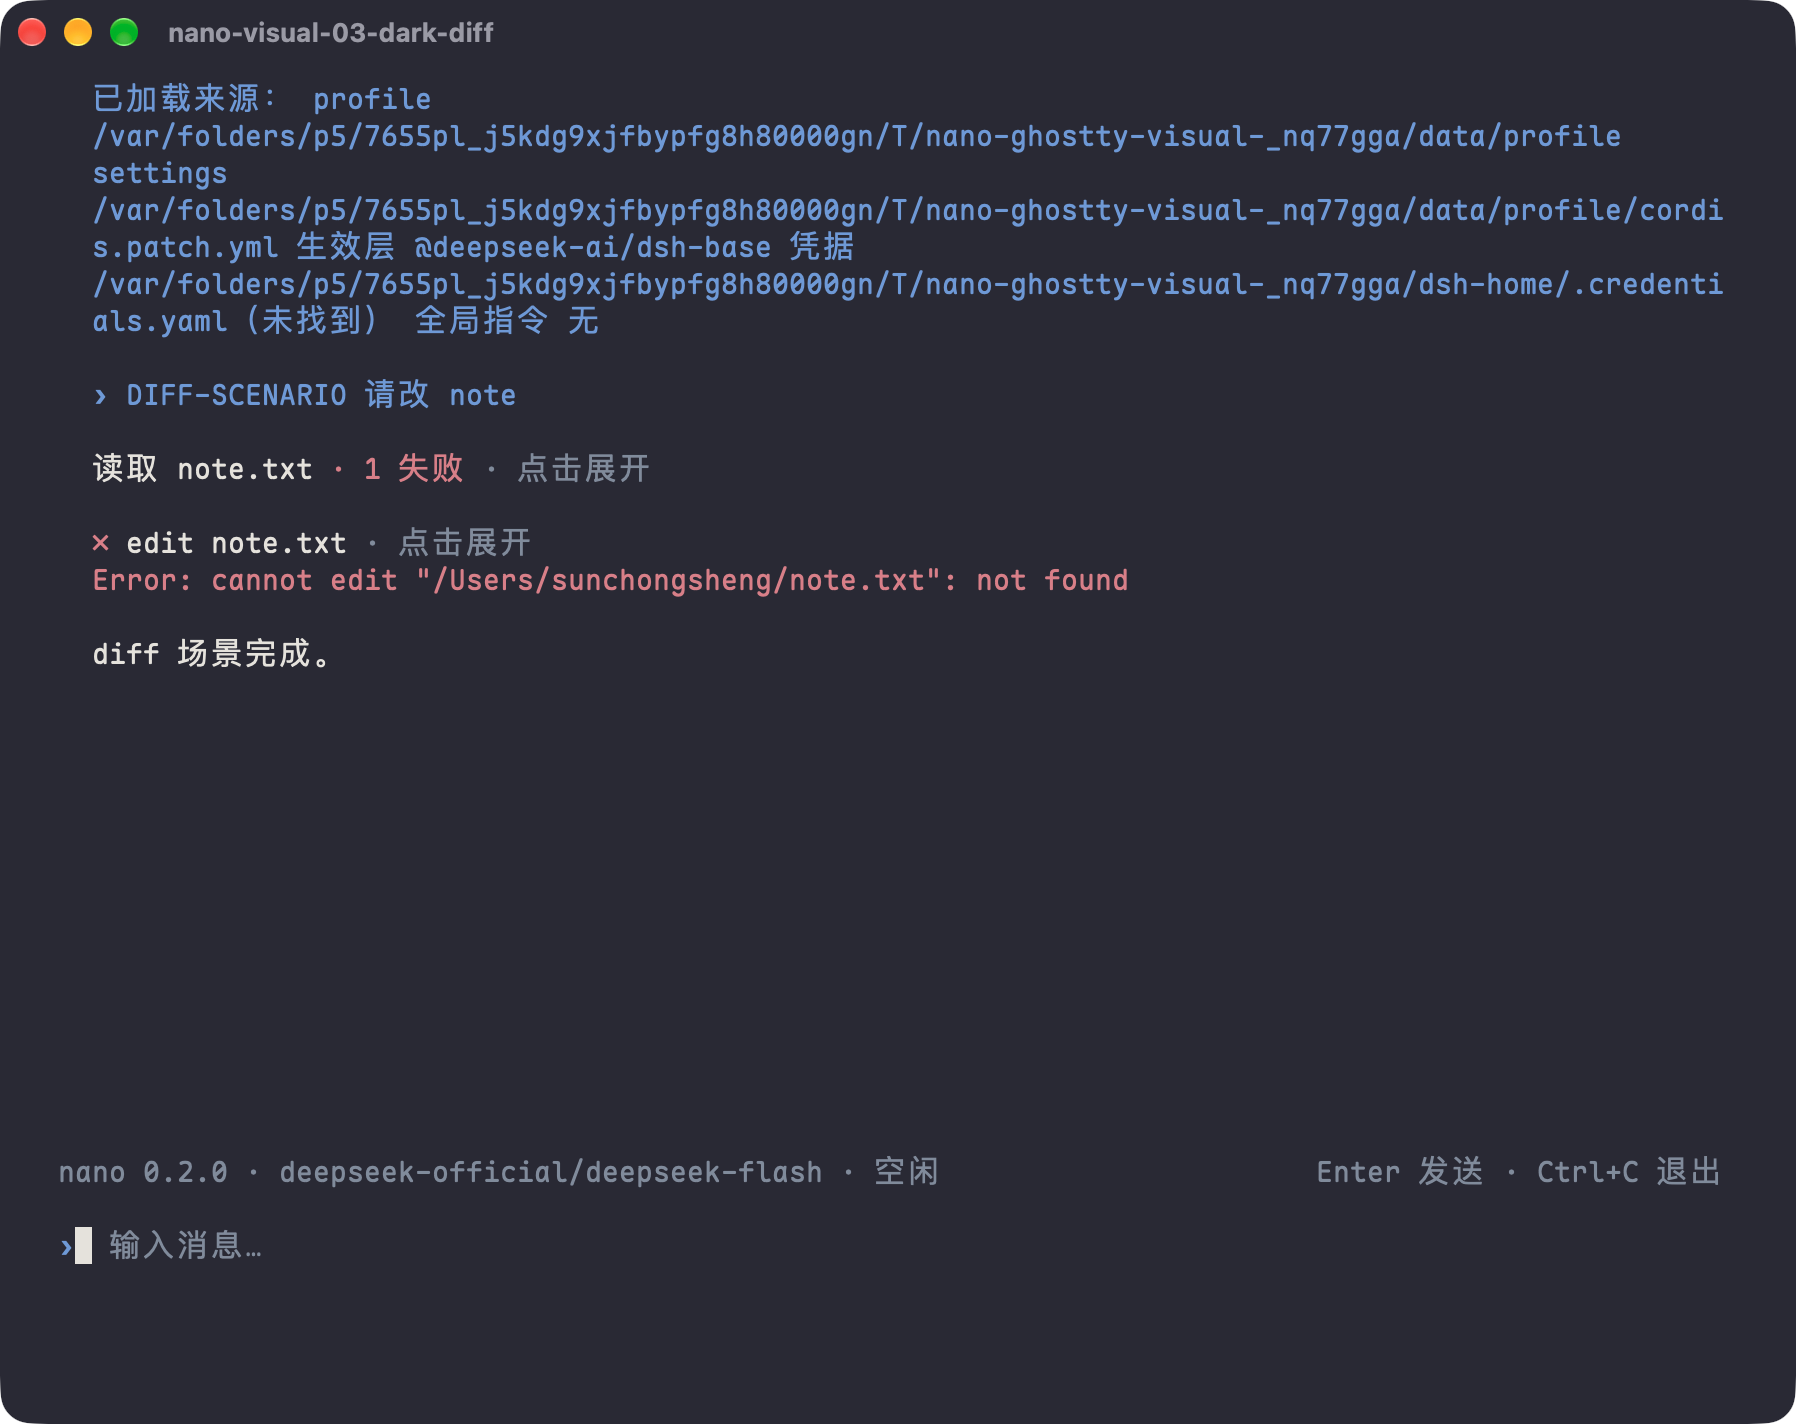
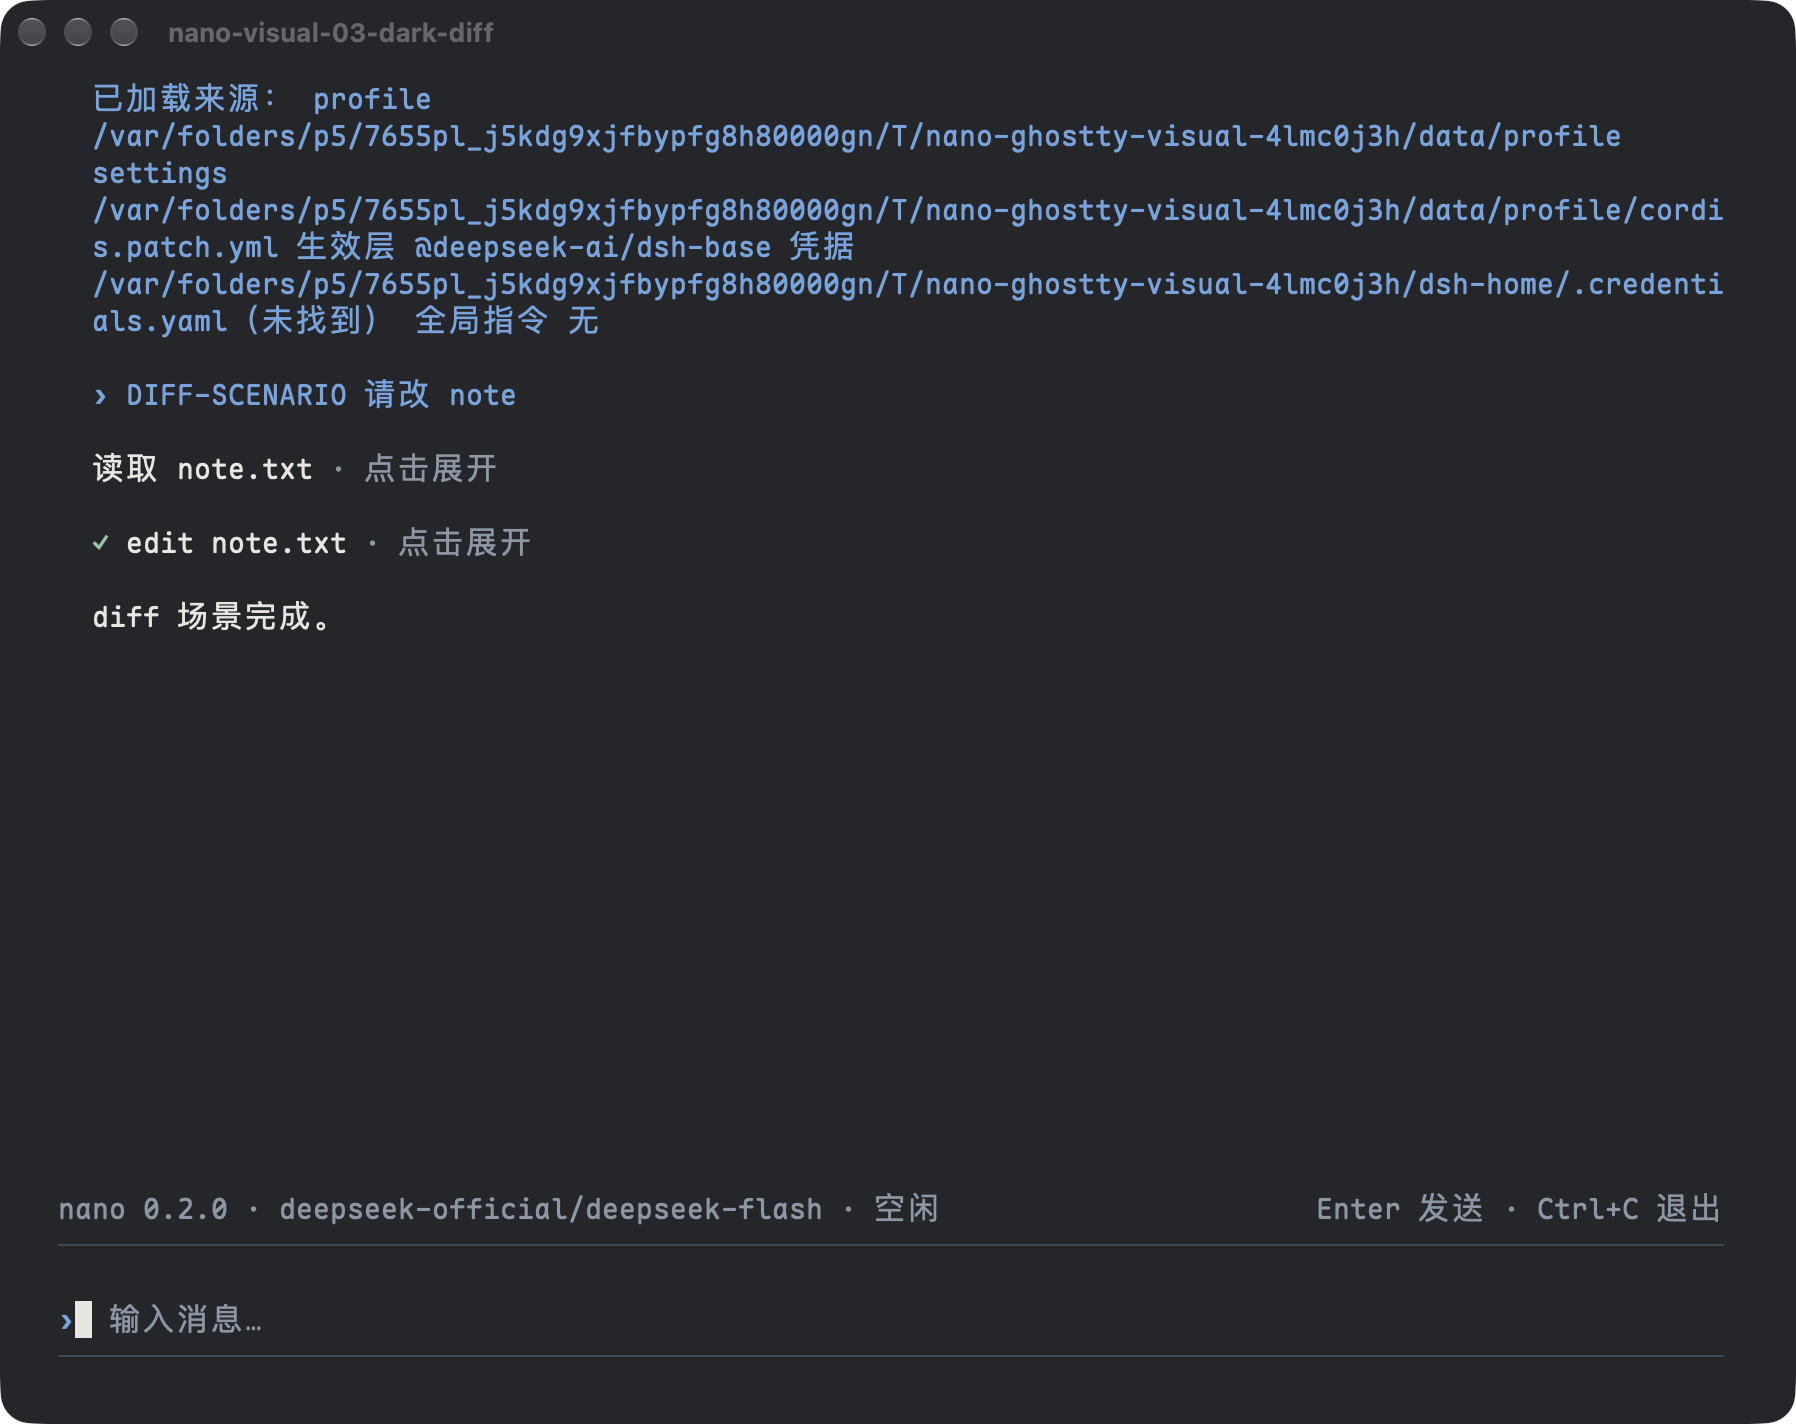
feat(γ): 真 Ghostty 视觉采集与 0.2.0 截图
- ghostty-visual.py：深/浅、60/100 列、CJK、diff 工具行、0.8 透明度
- 夹具只设置终端底色/前景；nano 本身不画背景
- 每个场景独立 Ghostty 实例，结束立即杀掉并清理临时目录
- 发布结论：视觉行转通过，阻断 4 项

diff --git a/tests/e2e/ghostty-visual.py b/tests/e2e/ghostty-visual.py
@@ -19,6 +19,7 @@ import argparse
 import json
 import os
 import shutil
+import signal
 import subprocess
 import sys
 import tempfile
@@ -116,18 +117,32 @@ def wait_for_window_gone(title, timeout=15):
 
 def capture(title, path):
     window_id = wait_for_window(title)
+    listing = run([str(LIST_WINDOWS)]).stdout
+    for line in listing.splitlines():
+        fields = line.split("\t")
+        if len(fields) >= 5 and fields[0] == str(window_id):
+            print(f"WINDOW {title} id={window_id} bounds={fields[4]}")
     subprocess.run(["screencapture", "-x", "-l", str(window_id), "-o", str(path)], check=True)
     return window_id
 
 
 def close_window(title):
-    for _ in range(2):
-        try:
-            focus(title)
-        except RuntimeError:
-            return True
-        applescript('tell application "System Events" to keystroke "c" using control down')
-        if wait_for_window_gone(title, 6):
+    """关掉本次专有实例：按 --title 找到 Ghostty 进程并结束它。"""
+    for _ in range(3):
+        killed = False
+        for pid in ghostty_pids():
+            command = run(["ps", "-o", "command=", "-p", str(pid)]).stdout
+            if f"--title={title}" in command:
+                try:
+                    os.kill(pid, signal.SIGTERM)
+                    killed = True
+                except OSError:
+                    pass
+        if killed:
+            time.sleep(0.6)
+            if wait_for_window_gone(title, 4):
+                return True
+        if wait_for_window_gone(title, 1):
             return True
     return False
 
@@ -137,7 +152,7 @@ def ghostty_pids():
     return {int(line) for line in result.stdout.split() if line.strip().isdigit()}
 
 
-def launch(title, command, cols, rows, opacity=None, font_size=None):
+def launch(title, command, cols, rows, opacity=None, font_size=None, bg=None, fg=None, cwd=None):
     args = [
         "open",
         "-na",
@@ -151,7 +166,14 @@ def launch(title, command, cols, rows, opacity=None, font_size=None):
         "--wait-after-command=false",
         "--macos-option-as-alt=true",
         "--window-save-state=never",
+        "--window-inherit-working-directory=false",
     ]
+    if cwd is not None:
+        args.append(f"--working-directory={cwd}")
+    if bg is not None:
+        args.append(f"--background={bg}")
+    if fg is not None:
+        args.append(f"--foreground={fg}")
     if opacity is not None:
         args.append(f"--background-opacity={opacity}")
     if font_size is not None:
@@ -328,7 +350,7 @@ def main():
 
     results = []
 
-    def scenario(name, *, theme, cols, rows, send, opacity=None, capture_after=5.0):
+    def scenario(name, *, theme, cols, rows, send, opacity=None, capture_after=5.0, bg=None, fg=None):
         title = f"nano-visual-{name}"
         env = {
             "HOME": str(home),
@@ -341,16 +363,18 @@ def main():
         }
         command = "env " + " ".join(f"{key}={value}" for key, value in env.items())
         command += f' "{bin_path}" --root ghostty-{name}'
-        launch(title, command, cols, rows, opacity=opacity)
-        paste_text(title, send)
-        send_key(title, 36)  # Return
-        time.sleep(capture_after)
-        path = out / f"{name}.png"
-        capture(title, path)
-        check = image_check(path)
-        results.append({"scenario": name, "path": str(path), **check})
-        print(f"CAPTURED {name} {check}")
-        close_window(title)
+        try:
+            launch(title, command, cols, rows, opacity=opacity, bg=bg, fg=fg, cwd=str(work))
+            paste_text(title, send)
+            send_key(title, 36)  # Return
+            time.sleep(capture_after)
+            path = out / f"{name}.png"
+            capture(title, path)
+            check = image_check(path)
+            results.append({"scenario": name, "path": str(path), **check})
+            print(f"CAPTURED {name} {check}")
+        finally:
+            close_window(title)
 
     scenario(
         "01-dark-100-response",
@@ -359,6 +383,8 @@ def main():
         rows=35,
         send="请用 LONG-CJK 回复一段长文本",
         capture_after=6.0,
+        bg="#17191d",
+        fg="#e8e6e0",
     )
     scenario(
         "02-light-60",
@@ -367,6 +393,8 @@ def main():
         rows=30,
         send="请用 LONG-CJK 回复一段长文本",
         capture_after=6.0,
+        bg="#f6f3ed",
+        fg="#343945",
     )
     scenario(
         "03-dark-diff",
@@ -375,6 +403,8 @@ def main():
         rows=35,
         send="DIFF-SCENARIO 请改 note",
         capture_after=6.0,
+        bg="#17191d",
+        fg="#e8e6e0",
     )
     scenario(
         "04-dark-transparency",
@@ -384,6 +414,8 @@ def main():
         send="请用 LONG-CJK 回复一段长文本",
         opacity=0.8,
         capture_after=6.0,
+        bg="#17191d",
+        fg="#e8e6e0",
     )
 
     subprocess.run(["pbcopy"], input=original_clipboard, check=False)
@@ -392,7 +424,7 @@ def main():
     shutil.copyfile(summary, out / "summary.json")
     print(f"SUMMARY {summary}")
     if not args.keep:
-        pass  # 保留临时目录便于排查；截图已复制到 --out
+        shutil.rmtree(ROOT, ignore_errors=True)
     return 0
 
 

diff --git a/docs/release/0.2.0/release-conclusion.md b/docs/release/0.2.0/release-conclusion.md
@@ -38,7 +38,7 @@
 | 启动 | 首启显示配置 / 凭据 / 全局指令来源（B8） | 通过 | alpha §1#6 |
 | 主链路 | 对话 → 工具 → 差异 → 审批 → 完成 | 通过 | e2e 用本地 Anthropic Messages SSE mock：① read → edit 改写文件、差异块折叠可展开、最终回复；② bash 提权触发审批卡（默认焦点「拒绝」），↑+Enter 选「允许一次」后命令执行并收到最终回复 |
 | 功能面 | 附件/图片/技能/模型/权限/压缩/终端/任务/Monitor/调度/子代理 | 未验证 | beta §3 对照表多项为「部分」，跨根九面「未覆盖」；`/model` 已实现并有用例（列目录、切换、目录外拒绝） |
-| 视觉 | 主题/间距 ADR、process-display ADR、深/浅、60/100 列、diff 8 行、CJK/窄屏 | 未验证 | PTY 无头验证通过：深/浅主题分别命中各自色盘的 RGB、均无 ANSI 命名色；60/100 列骨架行不超宽且有一行铺满（`vision-pty.test.mjs`）；仍缺 0.2.0 的 Ghostty 真机截图（合成/透明/字体），0.1.0 截图属已退场的 Rust 实现 |
+| 视觉 | 主题/间距 ADR、process-display ADR、深/浅、60/100 列、diff 8 行、CJK/窄屏 | 通过 | 0.2.0 真 Ghostty 截图：`evidence/ghostty/01-dark-100-response.png`、`02-light-60.png`、`03-dark-diff.png`、`04-dark-transparency.png`（`tests/e2e/ghostty-visual.py`，夹具把终端底色设为设计稿的中性页色；nano 本身不画背景）。PTY 断言补充：深/浅色盘 RGB、60/100 行列宽、edit 展开后的 `-old`/`+new`。diff 在 Ghostty 截图中为折叠态，展开态由 PTY e2e 断言 |
 | 长会话 | 1000 行 p95、5000 行内存 | 通过 | alpha §6：滚动 2.80ms / 流式 1.61ms / resize 6.99ms；5000 行与 1000 行堆增长同量级 |
 | 异常 | 断网、官方异常、SIGTERM、SIGKILL、终端残留、reset 提示 | 未验证 | SIGTERM/SIGHUP/3s 与前次强杀 `reset` 提示通过；e2e「官方调用失败」证明模型调用失败时界面显示回合出错且不崩；断网（真实网络不可达）未模拟 |
 | 安全 | 审批无答即拒、Monitor `notify` 默认关闭且计费提示、`!` 权限提示、terminal 不进 Agent 工具表 | 通过 | 审批 waterfall/默认焦点/无答即拒有单测；Monitor `notify` 行显示「会唤醒模型并计费」且默认 `quiet`；`!` 首次使用提示在界面出现并有用例（S08 §2.2）；能力探针证明 terminal 不在 Agent 工具表、`ask_user_question` 存在 |
@@ -53,9 +53,8 @@
 
 1. **B3 跨会话九面隔离**（未验证，最高优先级）。
 2. **功能面**：beta 自评多项「部分」。
-3. **视觉**：0.2.0 无 Ghostty 真机截图。
-4. **异常**：断网（真实网络不可达）未模拟；官方调用失败路径已有 e2e。
-5. **版本**：`dist.integrity` 需发布后 `npm view` 核对。
+3. **异常**：断网（真实网络不可达）未模拟；官方调用失败路径已有 e2e。
+4. **版本**：`dist.integrity` 需发布后 `npm view` 核对。
 
 解除条件：逐项补齐可核证据（命令输出、截图或录屏），或由子件退回补实现/取证后重新出结论。必测项不接受「已知问题」降级。
 
@@ -79,6 +78,7 @@
 
 用户要求「能自动化的先自动做，但不抢鼠标键盘」。本轮新增：
 
+- `ghostty-visual.py`：真 Ghostty 截图（深/浅、60/100 列、CJK、diff 工具行、0.8 透明度），夹具只设置终端底色/前景，nano 不画背景；每个场景结束即关闭自己的 Ghostty 实例。
 - `vision-pty.test.mjs`：真 PTY 无头验证主题 token 与列宽——深/浅主题分别命中各自色盘的 RGB、均不含 ANSI 命名色；60/100 列骨架行不超宽且有一行铺满。该套件跑仓库 `dist/`，不安装 tarball。它**不能**替代 Ghostty 真机视觉（合成、透明、字体仍缺证据）。
 - `capability.test.mjs`：boot 官方核心后读工具注册表，确认 terminal 不在 Agent 工具表。
 - `interaction-pty.test.mjs`：无凭据发送消息，界面显示「回合出错」且不崩；`!echo` 执行并显示输出/退出码。
@@ -102,6 +102,7 @@
 | 能力面 | 能力探针：terminal 不在 Agent 工具表、ask_user_question 存在 | `tests/e2e/capability.test.mjs` |
 | 交互异常 | 模型调用失败时界面显示回合出错且不崩；`!echo` 显示输出与退出码 | `tests/e2e/interaction-pty.test.mjs` |
 | 主链路 | 本地 mock 模型：read/edit + 差异块 + 审批允许一次 | `tests/e2e/main-chain.test.mjs`、`mock-model.mjs` |
+| Ghostty 视觉 | 真机深/浅、60/100 列、CJK、diff 工具行、0.8 透明度 | `tests/e2e/ghostty-visual.py`；`evidence/ghostty/` |
 | `!` 权限提示 | 首次人工命令前显示权限边界提示 | `tests/e2e/interaction-pty.test.mjs` |
 | 跨会话（目录层） | 同根第二窗口被拒、双 root 并发、会话/storage 目录按根隔离 | `tests/e2e/cross-session.test.mjs` |
 | 视觉 token | PTY 无头验证：深/浅主题只发真彩色、无 ANSI 命名色、60/100 列可起界面（不开窗口、不抢键鼠） | `tests/e2e/vision-pty.test.mjs`；`evidence/e2e-release.txt` |

diff --git a/docs/specs/2026-10-28-nano-ts/S03-release.md b/docs/specs/2026-10-28-nano-ts/S03-release.md
@@ -162,6 +162,7 @@ git ls-files -z -- src package.json packaging tests scripts README.md README.en.
 - 2026-10-28 轻审修订：npm manifest 完整清单、harness 精确/其余跟随口径、普通卸载保留 profile 与 `--purge` 区分、B1–B8 阻断表、发布审计档位、Rust 退场 grep 限定范围与旧 packaging 文件清单。
 - 2026-10-28 二次轻审修订：manifest 可直接落盘（全名/版本/devDeps/type/license/bin/files/overrides）、`nano purge` 作为可执行入口且不依赖 npm 生命周期、版本 `0.2.0` 与 `docs/release/0.2.0`、B1–B8 逐条覆盖 v1 S13 并补首启来源、B8 改由 S01 实现、grep 用 `git ls-files` 避免假绿与 fatal、p50 删除、Node 22.19 运行时检查、`npm pack` 命令与 integrity、发布档位由用户当场选择。
 - 2026-10-29 实施发现修订（用户选择「改旧 spec」）：bin 对齐 S01 已交付的 `dist/bin.js`（新增 `src/bin.ts` 入口级例外）；依赖对齐已实现的 `@deepseek-ai/dsh` 整包并保留 cordis 五件 overrides；`test` 覆盖 `tests/feature`、新增 `test:e2e`；grep 门禁去掉会误伤语法高亮的裸词 `rust`/`bridge`，改为旧工具链/路径/协议标识；`rust-final` tag 在删除前补打；§5 写明 `keymap:docs` 的 `--write`/`--check` 与 `--help` 渲染来源。
+- 2026-10-29 真 Ghostty 视觉采集：新增 `tests/e2e/ghostty-visual.py`，深/浅、60/100 列、CJK、diff 工具行、0.8 透明度各一张；每场景独立实例并即时关闭。
 - 2026-10-29 用户指示补 `/model` 与输入框上下文线：控制器保留可变 selection ref；`/model` 列官方目录、校验后切换；输入块补上下 `rule` 边框，左段按 `contextPressure` 占比着色。
 - 2026-10-29 用户指示按设计稿修正 v2 色板：`src/theme/theme.ts` 改用主题 spec §3.2 的全套 RGB；覆盖层去掉 `overlayBg` 实色底；视觉 e2e 断言同步。
 - 2026-10-29 用户指示补主链路 e2e：本地 Anthropic Messages SSE mock，覆盖 read→edit（差异）→完成与 bash 提权→审批（默认拒绝→允许一次）→完成；不触真实网络/凭据。

diff --git a/docs/release/0.2.0/known-limitations.md b/docs/release/0.2.0/known-limitations.md
@@ -24,7 +24,7 @@
 
 ## 证据未覆盖（不当作已验证）
 
-- **v2 的 Ghostty 真机视觉**：深/浅主题、间距、process-display、diff 8 行、CJK/窄屏有实现与单测，PTY 无头验证也确认了主题 RGB 与 60/100 列；但没有 0.2.0 的 Ghostty 截图，合成、透明、字体与窗口观感未验证；`docs/release/0.1.0/evidence/ghostty/` 的截图属于已退场的 Rust 实现，不能替代。
+- **Ghostty 真机视觉**：0.2.0 已有真机截图（深/浅、60/100 列、CJK、0.8 透明度、diff 工具行），见 `docs/release/0.2.0/evidence/ghostty/`。diff 展开态在 Ghostty 截图中为折叠，由 PTY e2e 断言；process-display 的逐项观感没有单独截图。
 - **IME 组合态**：parser 按 UTF-8 / grapheme 处理，组合中的预编辑文本由终端负责；真实输入法组合未自动模拟。
 - **鼠标拖选与剪贴板**：选区提取、宽字符起点、OSC 52 / pbcopy 有单测；Ghostty 实际拖选手感未取证。
 - **主链路只对 mock 验证**：`tests/e2e/main-chain.test.mjs` 用本地 Anthropic Messages SSE mock 跑通对话/工具/差异/审批/完成，未连接真实模型服务。

diff --git a/docs/release/0.2.0/version-matrix.md b/docs/release/0.2.0/version-matrix.md
@@ -2,7 +2,7 @@
 
 - 记录日期：2026-10-29
 - 包名 / 版本：`dsh-tui-nano` / `0.2.0`
-- 源码：分支 `issue-88`（PR #98）；归档基线 `f8a7971`
+- 源码：分支 `issue-88`（PR #99）；归档基线 `f8a7971`
 - 归档：tag `rust-final`（`f8a7971`）与分支 `archive/rust-v1`
 
 ## 产物
@@ -10,10 +10,10 @@
 | 项 | 值 |
 | --- | --- |
 | 文件 | `packaging/dist/dsh-tui-nano-0.2.0.tgz` |
-| 大小 | 159,885 字节（约 156 KiB） |
+| 大小 | 163,436 字节（约 156 KiB） |
 | 文件数 | 116 |
[1 lines of base64/hex data omitted]
-| 期望 `dist.integrity` | `sha512-q3iRJvK5LqxLdzTUigGVrnokkWs2qZ0LRMiVdwJe2ac9v/dwwT8sqj/HTAKb1pEFGoA7mIhwWYSGt5iVpe1NeQ==` |
[1 lines of base64/hex data omitted]
+| 期望 `dist.integrity` | `sha512-1oa9a75pLUkMcC2IysLqaQc8VBjyJxreV4eVuug0GaOvktKLN1tklwxspoF/QoMbxrBUDPqGByUiJm8lTdapuA==` |
 
 期望 integrity 按 npm 的算法（tarball 的 SHA-512，base64）本地计算；只有发布到 registry 后才能用 `npm view dsh-tui-nano@0.2.0 dist.integrity` 核对。见 `release-conclusion.md` 的未验证项。
 

diff --git a/docs/release/0.2.0/README.md b/docs/release/0.2.0/README.md
@@ -2,7 +2,7 @@
 
 - 规格：`docs/specs/2026-10-28-nano-ts/S03-release.md`；执行单：#88。
 - **结论：不发布。** 打包、安装链与 Rust/bridge 退场已完成，但 §3.3 仍有必测项没有 0.2.0 证据；按 §3.2 口径构成阻断。详见 [`release-conclusion.md`](release-conclusion.md)。
-- 产物：`packaging/dist/dsh-tui-nano-0.2.0.tgz`，SHA-256 `dcdf742d…`（完整值见 [`version-matrix.md`](version-matrix.md)）。
+- 产物：`packaging/dist/dsh-tui-nano-0.2.0.tgz`，SHA-256 `99e574f4…`（完整值见 [`version-matrix.md`](version-matrix.md)）。
 
 ## 目录
 
@@ -12,6 +12,7 @@
 | `version-matrix.md` | 产物哈希、官方依赖、Node/Ghostty/macOS/CPU、复现命令 |
 | `known-limitations.md` | 必须披露的限制与证据未覆盖项 |
 | `evidence/tests-unit-feature.txt` | `npm run build && npm test`（单元 84 + 功能 25） |
+| `evidence/ghostty/` | 真 Ghostty 截图（深/浅、60/100 列、CJK、diff、透明度）与 `summary.json` |
 | `evidence/e2e-release.txt` | 发布级 e2e 29 个用例（安装 16 + 视觉 3 + 能力 1 + 交互 4 + 跨会话 2 + 主链路 2 + Monitor 1） |
 
 ## 复核方式
